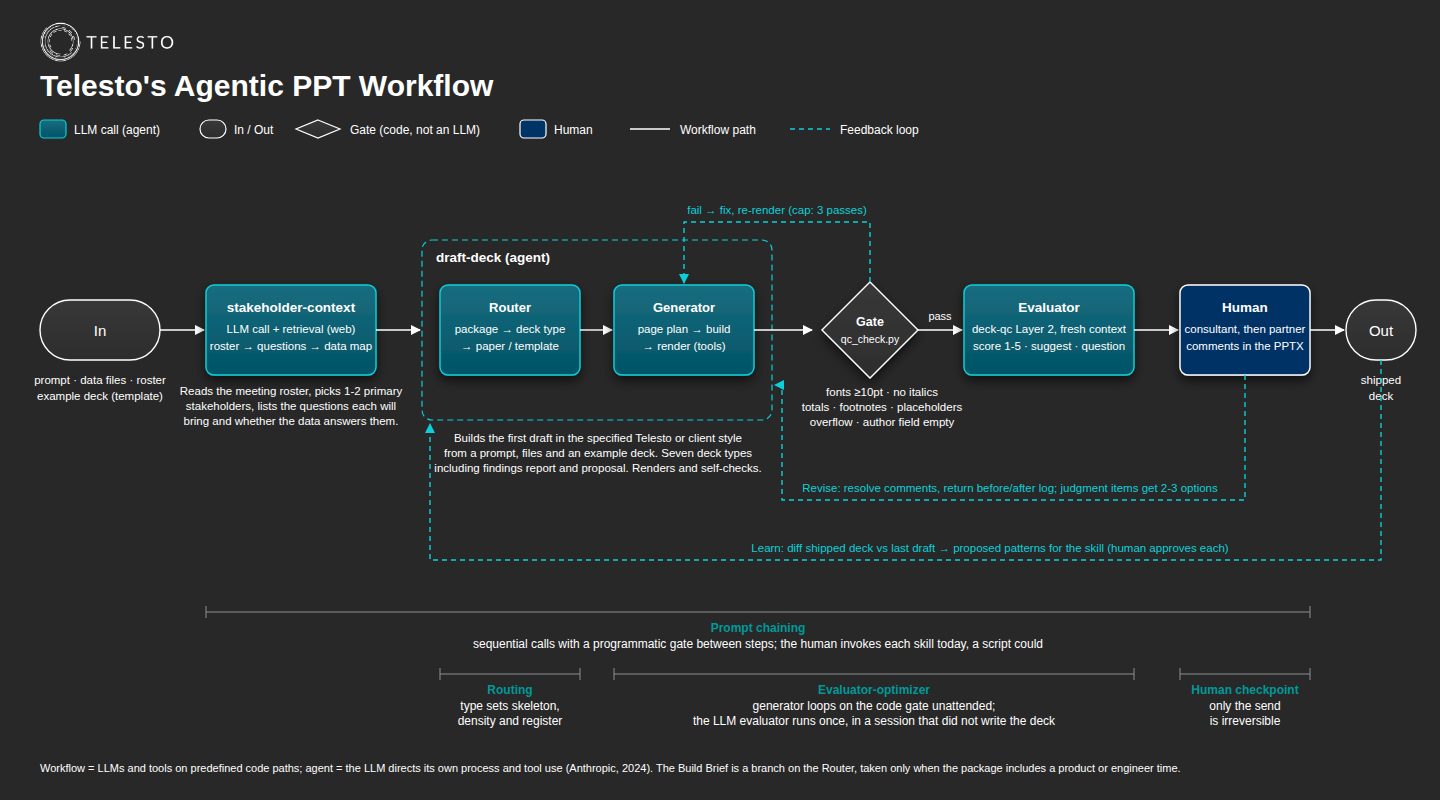
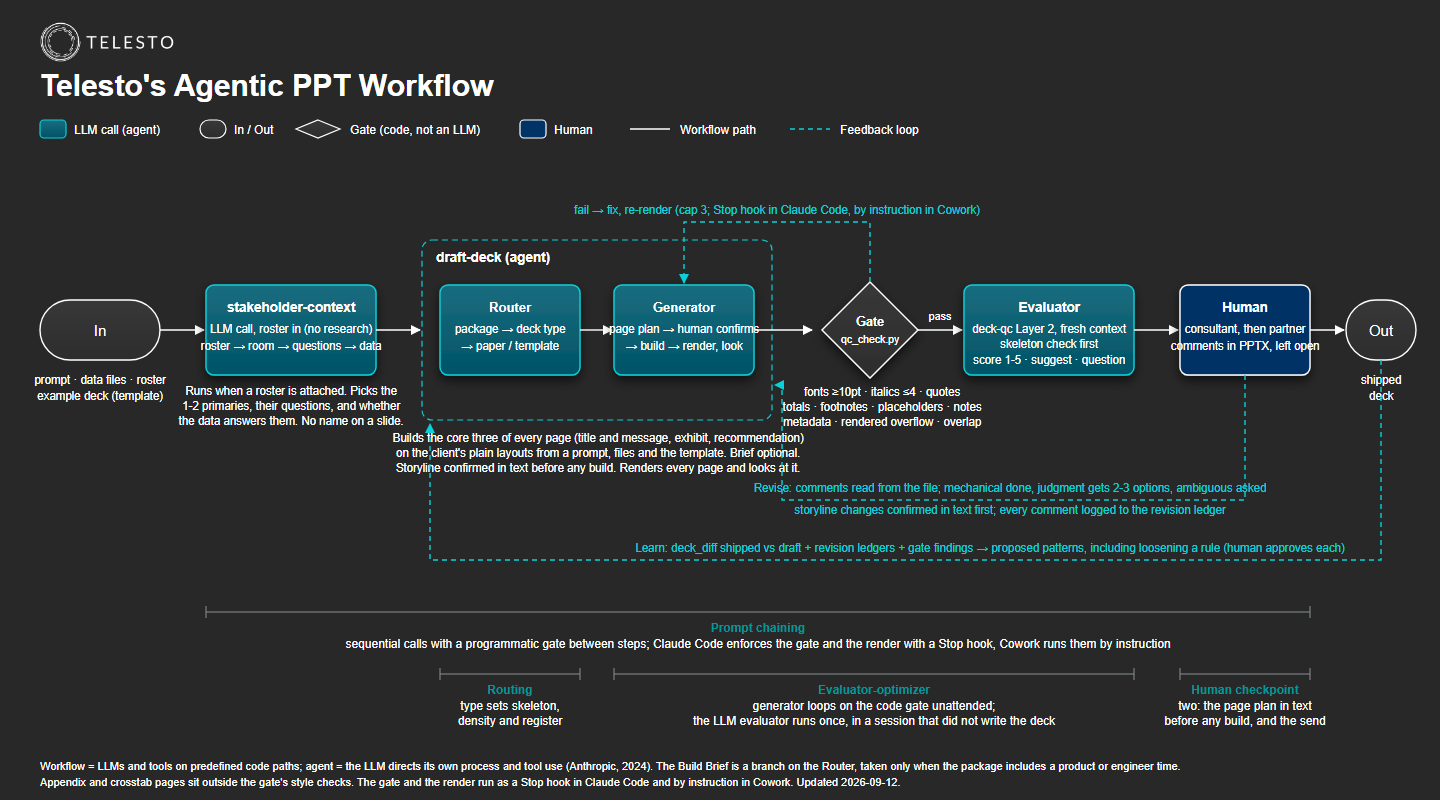
Chain chart updated to the built workflow: two human checkpoints, render in the gate, revise ledger, learn inputs

diff --git a/docs/telesto_deck_chain.html b/docs/telesto_deck_chain.html
@@ -54,19 +54,19 @@
   <!-- Agent 1: stakeholder-context -->
   <rect x="206" y="285" width="170" height="90" rx="8" fill="url(#agent)" stroke="#0BD0D9" stroke-width="1.4" filter="url(#sh)"/>
   <text x="291" y="312" font-size="13.5" font-weight="bold" text-anchor="middle" fill="#FFFFFF">stakeholder-context</text>
-  <text x="291" y="333" font-size="11.5" text-anchor="middle" fill="#FFFFFF">LLM call + retrieval (web)</text>
-  <text x="291" y="350" font-size="11.5" text-anchor="middle" fill="#FFFFFF">roster → questions → data map</text>
-  <text x="291" y="395" font-size="11.5" text-anchor="middle" fill="#FFFFFF">Reads the meeting roster, picks 1-2 primary</text>
-  <text x="291" y="410" font-size="11.5" text-anchor="middle" fill="#FFFFFF">stakeholders, lists the questions each will</text>
-  <text x="291" y="425" font-size="11.5" text-anchor="middle" fill="#FFFFFF">bring and whether the data answers them.</text>
+  <text x="291" y="333" font-size="11.5" text-anchor="middle" fill="#FFFFFF">LLM call, roster in (no research)</text>
+  <text x="291" y="350" font-size="11.5" text-anchor="middle" fill="#FFFFFF">roster → room → questions → data</text>
+  <text x="291" y="395" font-size="11.5" text-anchor="middle" fill="#FFFFFF">Runs when a roster is attached. Picks the</text>
+  <text x="291" y="410" font-size="11.5" text-anchor="middle" fill="#FFFFFF">1-2 primaries, their questions, and whether</text>
+  <text x="291" y="425" font-size="11.5" text-anchor="middle" fill="#FFFFFF">the data answers them. No name on a slide.</text>
   <line x1="376" y1="330" x2="420" y2="330" stroke="#FFFFFF" stroke-width="1.4" marker-end="url(#ar)"/>
 
   <!-- Agent 2: draft-deck container -->
   <rect x="422" y="240" width="350" height="180" rx="10" fill="none" stroke="#0BD0D9" stroke-width="1.2" stroke-dasharray="6,4"/>
   <text x="436" y="262" font-size="13.5" font-weight="bold" fill="#FFFFFF">draft-deck  (agent)</text>
-  <text x="598" y="442" font-size="11.5" text-anchor="middle" fill="#FFFFFF">Builds the first draft in the specified Telesto or client style</text>
-  <text x="598" y="457" font-size="11.5" text-anchor="middle" fill="#FFFFFF">from a prompt, files and an example deck. Seven deck types</text>
-  <text x="598" y="472" font-size="11.5" text-anchor="middle" fill="#FFFFFF">including findings report and proposal. Renders and self-checks.</text>
+  <text x="598" y="442" font-size="11.5" text-anchor="middle" fill="#FFFFFF">Builds the core three of every page (title and message, exhibit, recommendation)</text>
+  <text x="598" y="457" font-size="11.5" text-anchor="middle" fill="#FFFFFF">on the client&#39;s plain layouts from a prompt, files and the template. Brief optional.</text>
+  <text x="598" y="472" font-size="11.5" text-anchor="middle" fill="#FFFFFF">Storyline confirmed in text before any build. Renders every page and looks at it.</text>
 
   <!-- Router -->
   <rect x="440" y="285" width="140" height="90" rx="8" fill="url(#agent)" stroke="#0BD0D9" stroke-width="1.4" filter="url(#sh)"/>
@@ -78,20 +78,20 @@
   <!-- Generator -->
   <rect x="614" y="285" width="140" height="90" rx="8" fill="url(#agent)" stroke="#0BD0D9" stroke-width="1.4" filter="url(#sh)"/>
   <text x="684" y="312" font-size="13" font-weight="bold" text-anchor="middle" fill="#FFFFFF">Generator</text>
-  <text x="684" y="333" font-size="11.5" text-anchor="middle" fill="#FFFFFF">page plan → build</text>
-  <text x="684" y="350" font-size="11.5" text-anchor="middle" fill="#FFFFFF">→ render (tools)</text>
+  <text x="684" y="333" font-size="11.5" text-anchor="middle" fill="#FFFFFF">page plan → human confirms</text>
+  <text x="684" y="350" font-size="11.5" text-anchor="middle" fill="#FFFFFF">→ build → render, look</text>
   <line x1="754" y1="330" x2="812" y2="330" stroke="#FFFFFF" stroke-width="1.4" marker-end="url(#ar)"/>
 
   <!-- Gate -->
   <polygon points="870,282 918,330 870,378 822,330" fill="url(#card)" stroke="#FFFFFF" stroke-width="1.4" filter="url(#sh)"/>
   <text x="870" y="326" font-size="12.5" font-weight="bold" text-anchor="middle" fill="#FFFFFF">Gate</text>
   <text x="870" y="343" font-size="10.5" text-anchor="middle" fill="#FFFFFF">qc_check.py</text>
-  <text x="882" y="396" font-size="11.5" text-anchor="middle" fill="#FFFFFF">fonts ≥10pt · no italics</text>
-  <text x="882" y="411" font-size="11.5" text-anchor="middle" fill="#FFFFFF">totals · footnotes · placeholders</text>
-  <text x="882" y="426" font-size="11.5" text-anchor="middle" fill="#FFFFFF">overflow · author field empty</text>
+  <text x="882" y="396" font-size="11.5" text-anchor="middle" fill="#FFFFFF">fonts ≥10pt · italics ≤4 · quotes</text>
+  <text x="882" y="411" font-size="11.5" text-anchor="middle" fill="#FFFFFF">totals · footnotes · placeholders · notes</text>
+  <text x="882" y="426" font-size="11.5" text-anchor="middle" fill="#FFFFFF">metadata · rendered overflow · overlap</text>
   <!-- fail loop back to Generator -->
   <path d="M870,282 L870,222 L684,222 L684,283" fill="none" stroke="#0BD0D9" stroke-width="1.4" stroke-dasharray="5,4" marker-end="url(#ard)"/>
-  <text x="777" y="214" font-size="11.5" text-anchor="middle" fill="#0BD0D9">fail → fix, re-render (cap: 3 passes)</text>
+  <text x="777" y="214" font-size="11.5" text-anchor="middle" fill="#0BD0D9">fail → fix, re-render (cap 3; Stop hook in Claude Code, by instruction in Cowork)</text>
   <line x1="918" y1="330" x2="962" y2="330" stroke="#FFFFFF" stroke-width="1.4" marker-end="url(#ar)"/>
   <text x="940" y="320" font-size="11" text-anchor="middle" fill="#FFFFFF">pass</text>
 
@@ -99,14 +99,15 @@
   <rect x="964" y="285" width="170" height="90" rx="8" fill="url(#agent)" stroke="#0BD0D9" stroke-width="1.4" filter="url(#sh)"/>
   <text x="1049" y="312" font-size="13.5" font-weight="bold" text-anchor="middle" fill="#FFFFFF">Evaluator</text>
   <text x="1049" y="333" font-size="11.5" text-anchor="middle" fill="#FFFFFF">deck-qc Layer 2, fresh context</text>
-  <text x="1049" y="350" font-size="11.5" text-anchor="middle" fill="#FFFFFF">score 1-5 · suggest · question</text>
+  <text x="1049" y="348" font-size="11.5" text-anchor="middle" fill="#FFFFFF">skeleton check first</text>
+  <text x="1049" y="364" font-size="11.5" text-anchor="middle" fill="#FFFFFF">score 1-5 · suggest · question</text>
   <line x1="1134" y1="330" x2="1178" y2="330" stroke="#FFFFFF" stroke-width="1.4" marker-end="url(#ar)"/>
 
   <!-- Human -->
   <rect x="1180" y="285" width="130" height="90" rx="8" fill="#003366" stroke="#FFFFFF" stroke-width="1.4" filter="url(#sh)"/>
   <text x="1245" y="312" font-size="13.5" font-weight="bold" text-anchor="middle" fill="#FFFFFF">Human</text>
   <text x="1245" y="333" font-size="11.5" text-anchor="middle" fill="#FFFFFF">consultant, then partner</text>
-  <text x="1245" y="350" font-size="11.5" text-anchor="middle" fill="#FFFFFF">comments in the PPTX</text>
+  <text x="1245" y="350" font-size="11.5" text-anchor="middle" fill="#FFFFFF">comments in PPTX, left open</text>
   <line x1="1310" y1="330" x2="1344" y2="330" stroke="#FFFFFF" stroke-width="1.4" marker-end="url(#ar)"/>
 
   <!-- Out -->
@@ -117,11 +118,12 @@
 
   <!-- Revise loop: Human -> Generator -->
   <path d="M1245,375 L1245,500 L782,500 L782,385 L775,385" fill="none" stroke="#0BD0D9" stroke-width="1.4" stroke-dasharray="5,4" marker-end="url(#ard)"/>
-  <text x="1010" y="492" font-size="11.5" text-anchor="middle" fill="#0BD0D9">Revise: resolve comments, return before/after log; judgment items get 2-3 options</text>
+  <text x="1010" y="492" font-size="11.5" text-anchor="middle" fill="#0BD0D9">Revise: comments read from the file; mechanical done, judgment gets 2-3 options, ambiguous asked</text>
+  <text x="1010" y="514" font-size="11.5" text-anchor="middle" fill="#0BD0D9">storyline changes confirmed in text first; every comment logged to the revision ledger</text>
 
   <!-- Learn loop: Out -> draft-deck instructions -->
   <path d="M1381,360 L1381,560 L430,560 L430,424" fill="none" stroke="#0BD0D9" stroke-width="1.4" stroke-dasharray="5,4" marker-end="url(#ard)"/>
-  <text x="990" y="552" font-size="11.5" text-anchor="middle" fill="#0BD0D9">Learn: diff shipped deck vs last draft → proposed patterns for the skill (human approves each)</text>
+  <text x="990" y="552" font-size="11.5" text-anchor="middle" fill="#0BD0D9">Learn: deck_diff shipped vs draft + revision ledgers + gate findings → proposed patterns, including loosening a rule (human approves each)</text>
 
   <!-- Pattern brackets -->
   <g font-size="12" fill="#FFFFFF">
@@ -129,7 +131,7 @@
     <line x1="206" y1="606" x2="206" y2="618" stroke="#8A8F92" stroke-width="1"/>
     <line x1="1310" y1="606" x2="1310" y2="618" stroke="#8A8F92" stroke-width="1"/>
     <text x="758" y="632" text-anchor="middle" font-weight="bold" fill="#009999">Prompt chaining</text>
-    <text x="758" y="648" text-anchor="middle">sequential calls with a programmatic gate between steps; the human invokes each skill today, a script could</text>
+    <text x="758" y="648" text-anchor="middle">sequential calls with a programmatic gate between steps; Claude Code enforces the gate and the render with a Stop hook, Cowork runs them by instruction</text>
 
     <line x1="440" y1="674" x2="580" y2="674" stroke="#8A8F92" stroke-width="1"/>
     <line x1="440" y1="668" x2="440" y2="680" stroke="#8A8F92" stroke-width="1"/>
@@ -149,11 +151,12 @@
     <line x1="1180" y1="668" x2="1180" y2="680" stroke="#8A8F92" stroke-width="1"/>
     <line x1="1310" y1="668" x2="1310" y2="680" stroke="#8A8F92" stroke-width="1"/>
     <text x="1245" y="694" text-anchor="middle" font-weight="bold" fill="#009999">Human checkpoint</text>
-    <text x="1245" y="710" text-anchor="middle">only the send</text>
-    <text x="1245" y="725" text-anchor="middle">is irreversible</text>
+    <text x="1245" y="710" text-anchor="middle">two: the page plan in text</text>
+    <text x="1245" y="725" text-anchor="middle">before any build, and the send</text>
   </g>
 
   <!-- Footnote -->
-  <text x="40" y="772" font-size="11" fill="#FFFFFF">Workflow = LLMs and tools on predefined code paths; agent = the LLM directs its own process and tool use (Anthropic, 2024). The Build Brief is a branch on the Router, taken only when the package includes a product or engineer time.</text>
+  <text x="40" y="770" font-size="11" fill="#FFFFFF">Workflow = LLMs and tools on predefined code paths; agent = the LLM directs its own process and tool use (Anthropic, 2024). The Build Brief is a branch on the Router, taken only when the package includes a product or engineer time.</text>
+  <text x="40" y="786" font-size="11" fill="#FFFFFF">Appendix and crosstab pages sit outside the gate&#39;s style checks. The gate and the render run as a Stop hook in Claude Code and by instruction in Cowork. Updated 2026-09-12.</text>
 </svg>
 </body></html>
